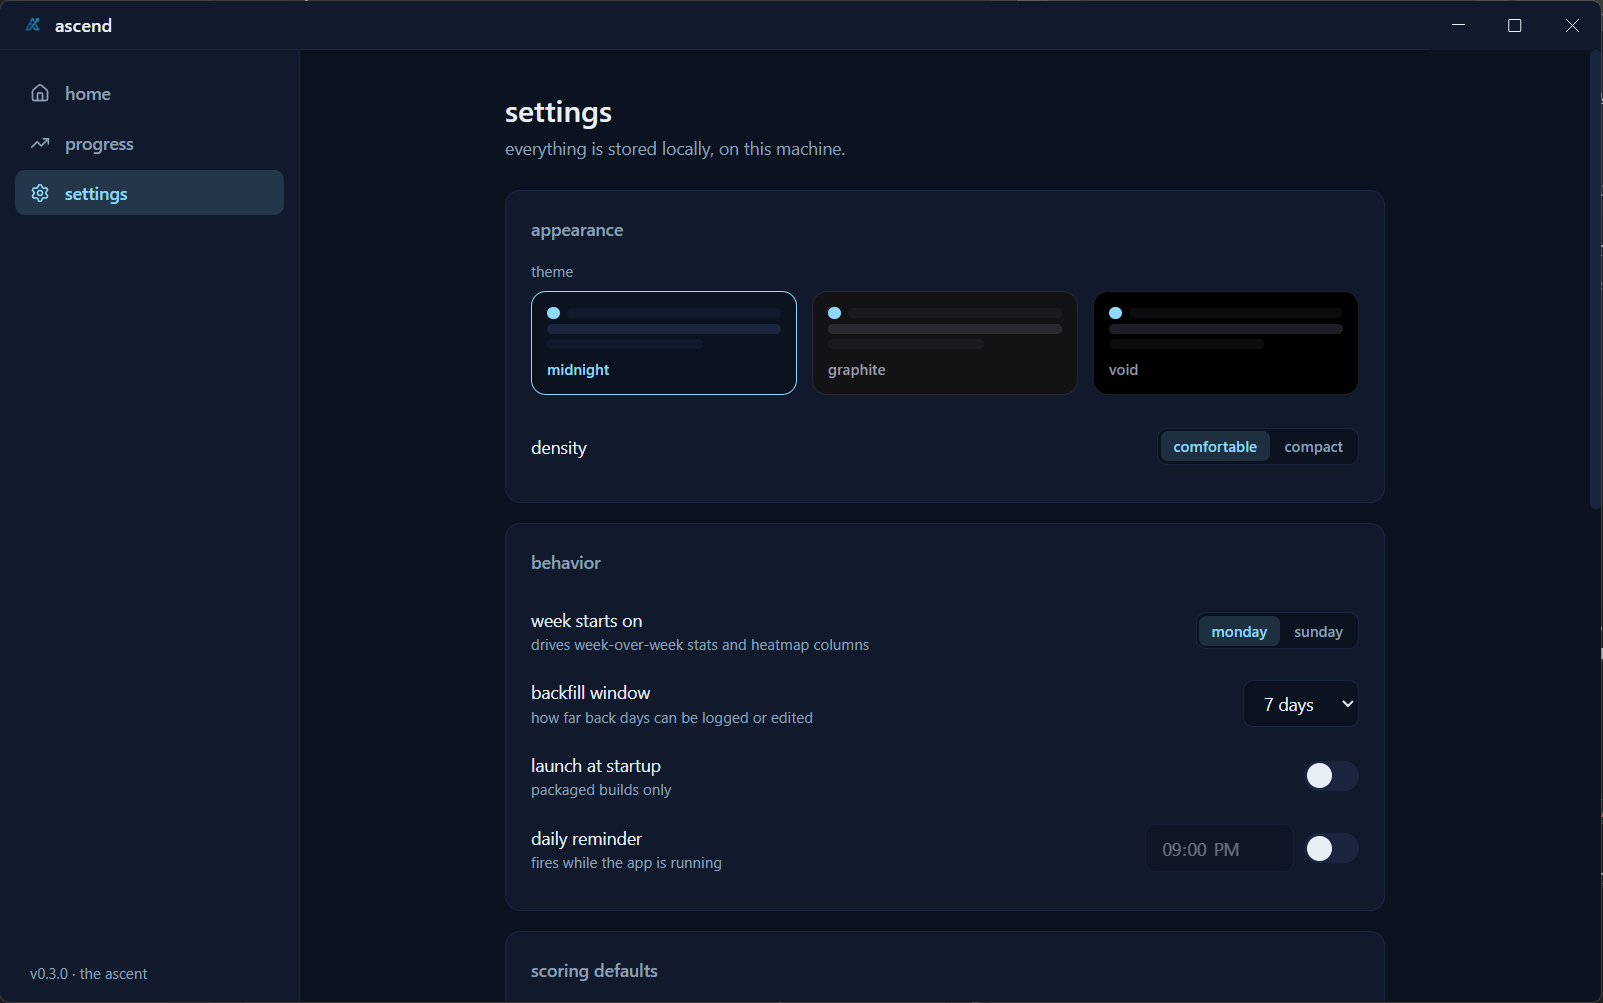
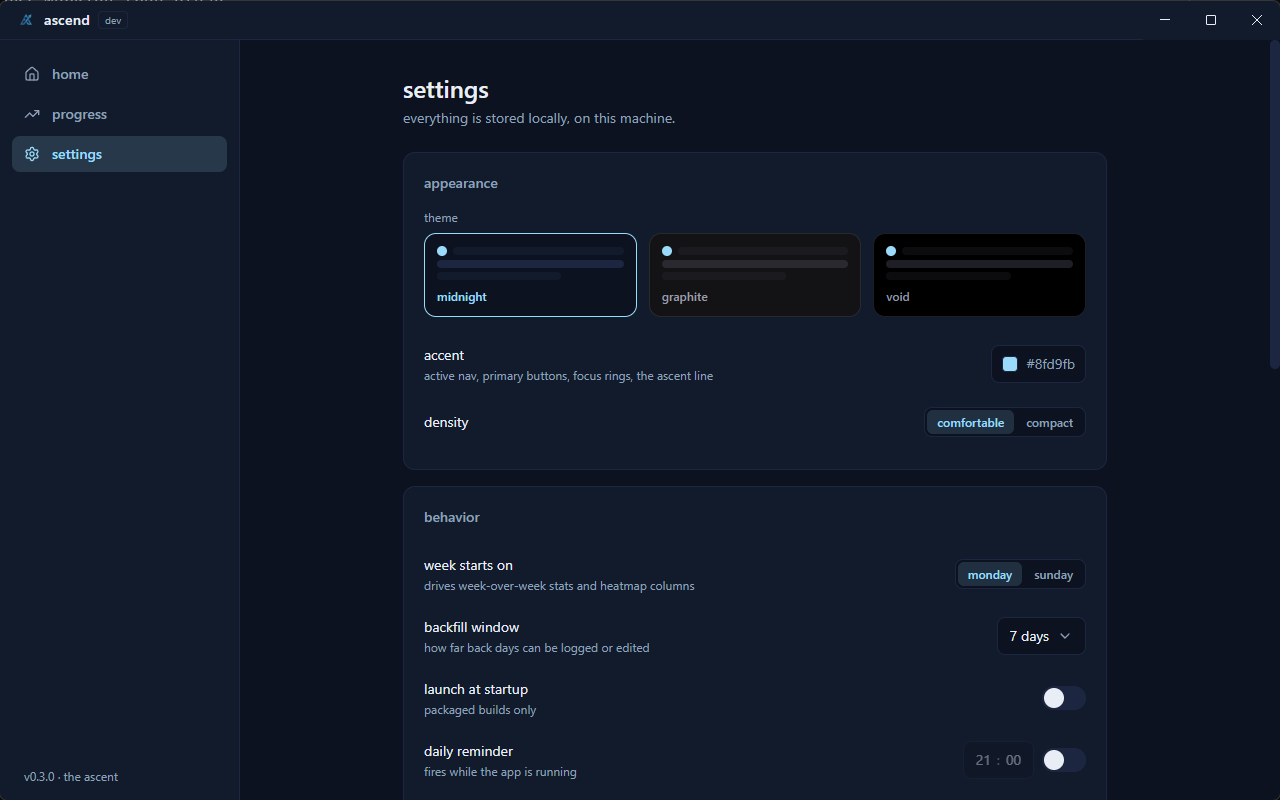
docs: sync from v0.4.0

diff --git a/README.md b/README.md
@@ -26,9 +26,12 @@
 - a pure scoring engine: streak multipliers, penalties for logged misses, partial credit, and effective-dated parameter changes (history is never rescored)
 - charts that draw your climb: cumulative ascent line, daily bars, completion heatmap
 - a home screen with momentum vs last week, top streaks, and a 14-day sparkline
-- three dark themes: midnight, graphite, and void
+- three dark themes (midnight, graphite, void) and a customizable accent color
+- a comfortable/compact density that scales controls, spacing, and charts
+- fully keyboard-operable controls throughout
 - integrated window chrome: a themed header with a drag region replaces the native title bar
 - json export and import, daily startup backups with one-click restore
+- archived habits can be restored, or deleted forever behind a type-to-confirm step
 - an "erase everything" flow behind a type-to-confirm step, with an automatic backup first
 - local reminders and launch-at-startup, no network anywhere
 
@@ -41,10 +44,11 @@ macos and linux installers are on the roadmap.
 ## data and privacy
 
 - 100% local: no cloud, no telemetry, no accounts, no network calls
-- your data lives in a single sqlite database at `%APPDATA%/Ascend/ascend.db`
-- a daily snapshot backup is written on launch (newest 7 kept), with extra snapshots before any import or restore
+- your data lives in a single sqlite database at `%APPDATA%/ascend/ascend.db`
+- a daily snapshot backup is written on launch (newest 7 kept), with extra snapshots before any import, restore, delete, or erase
 - full json export and import from settings > data
-- habits are never hard-deleted: archiving keeps their history in your stats
+- archiving a habit keeps its history in your stats, and it can be restored from settings > data
+- exactly two flows hard-delete data, both behind a type-to-confirm step and an automatic backup: "erase everything", and deleting an archived habit forever (which removes its logs and recomputes historical scores)
 
 ## roadmap
 

diff --git a/FAQ.md b/FAQ.md
@@ -2,11 +2,15 @@
 
 ## where is my data?
 
-everything lives in a single sqlite database on your machine, at `%APPDATA%/Ascend/ascend.db` on windows. nothing leaves your computer.
+everything lives in a single sqlite database on your machine, at `%APPDATA%/ascend/ascend.db` on windows. nothing leaves your computer.
 
 ## how do backups work?
 
-a snapshot of the database is written every day on launch, and the newest 7 are kept. an extra snapshot is taken before any import or restore. you can restore a snapshot from settings > data, and a full json export and import lives there too.
+a snapshot of the database is written every day on launch, and the newest 7 are kept. an extra snapshot is taken before any import, restore, permanent delete, or erase. you can restore a snapshot from settings > data, and a full json export and import lives there too.
+
+## can i delete a habit?
+
+archive it first (manage habits), then restore it or delete it forever from settings > data. deleting forever removes the habit and all of its logs, recomputes historical scores, and writes a backup snapshot first.
 
 ## is there telemetry?
 